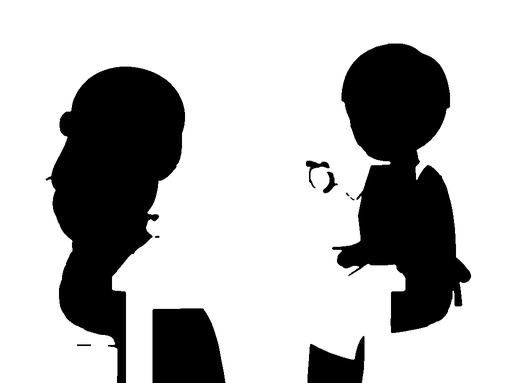
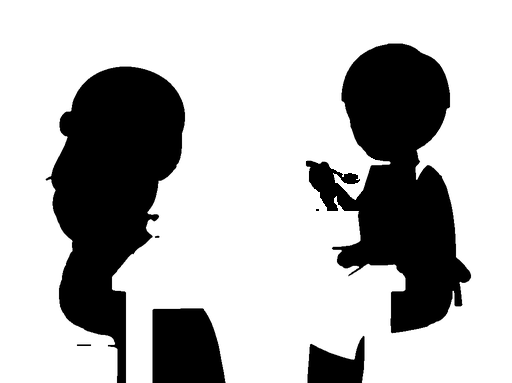
같이 먹기 — 클레멘의 숟가락 든 손이 흐려 보이던 것 (그림자 마스크에 손을 채운다)
Claude-Session: https://claude.ai/code/session_01RZe6NgtUbyn7nAqzQfcGca

Changed region(s): [[0.5938, 0.4308, 0.7188, 0.5744]]

diff --git a/index.html b/index.html
@@ -13,11 +13,11 @@
 <link rel="preconnect" href="https://fonts.googleapis.com">
 <link rel="preconnect" href="https://fonts.gstatic.com" crossorigin>
 <link href="https://fonts.googleapis.com/css2?family=Noto+Sans+KR:wght@400;500;700;800;900&display=swap" rel="stylesheet">
-<link rel="stylesheet" href="style.css?v=20261029f">
+<link rel="stylesheet" href="style.css?v=20261029g">
 <!-- ⚠ UI 색상은 «첫 페인트 전»에 정해져야 한다 — 문서 끝에 두면 기본 색으로
      한 번 그려진 뒤에 얹혀서 다크를 고른 사람에게 흰 화면이 한 번 친다.
      그래서 여기만 `defer` 없이 `<head>` 에서 읽는다 (theme.js 주석 참고) -->
-<script src="theme.js?v=20261029f"></script>
+<script src="theme.js?v=20261029g"></script>
 </head>
 <body>
 
@@ -54,7 +54,7 @@
 <div id="splash" class="splash">
   <div class="splash-inner">
     <!-- 로고 이미지(logo.png)가 있으면 그것을 사용, 없으면 아래 SVG로 자동 폴백 -->
-    <img id="splashLogoImg" class="splash-logo" src="logo.png?v=20261029f" alt="Dream Syndicate Studio"
+    <img id="splashLogoImg" class="splash-logo" src="logo.png?v=20261029g" alt="Dream Syndicate Studio"
          onerror="this.remove(); var f=document.getElementById('splashLogoSvg'); if(f) f.style.display='block';">
     <svg id="splashLogoSvg" class="splash-logo" style="display:none" viewBox="0 0 240 240" xmlns="http://www.w3.org/2000/svg" role="img" aria-label="Dream Syndicate Studio">
       <defs>
@@ -1289,40 +1289,40 @@
 <!-- ── 토스트 ── -->
 <div id="toast" class="toast"></div>
 
-<script src="i18n.js?v=20261029f"></script>
-<script src="intro.js?v=20261029f"></script>
-<script src="data.js?v=20261029f"></script>
+<script src="i18n.js?v=20261029g"></script>
+<script src="intro.js?v=20261029g"></script>
+<script src="data.js?v=20261029g"></script>
 <!-- ⚠⚠ **`roomart.js` 는 «모듈보다 먼저»** 와야 한다. 방과 소품의 그림이 여기
      한 곳에 있고, 3D 방(room3d.js · ES 모듈)이 `window.RoomArt` 로 그것을 읽는다 —
      SVG 폴백(avatar.js)도 같은 캔버스를 data URL 로 쓴다.
      (평범한 스크립트가 모듈보다 먼저 도는 것이 규칙이지만, 순서로도 적어 둔다) -->
-<script src="roomart.js?v=20261029f"></script>
-<script src="crouchart.js?v=20261029f"></script>
-<script src="earart.js?v=20261029f"></script>
-<script src="expart.js?v=20261029f"></script>
-<script src="avatar.js?v=20261029f"></script>
-<script src="village.js?v=20261029f"></script>
-<script src="npcart.js?v=20261029f"></script>
-<script src="portrait.js?v=20261029f"></script>
+<script src="roomart.js?v=20261029g"></script>
+<script src="crouchart.js?v=20261029g"></script>
+<script src="earart.js?v=20261029g"></script>
+<script src="expart.js?v=20261029g"></script>
+<script src="avatar.js?v=20261029g"></script>
+<script src="village.js?v=20261029g"></script>
+<script src="npcart.js?v=20261029g"></script>
+<script src="portrait.js?v=20261029g"></script>
 <!-- 애교 모션의 리그. **`creature.js` 가 그릴 때 읽으므로 그보다 먼저** 둔다
      (없어도 게임은 돈다 — 그때는 크리처가 가만히 서 있다) -->
-<script src="petidle.js?v=20261029f"></script>
-<script src="creature.js?v=20261029f"></script>
-<script src="cauldron.js?v=20261029f"></script>
-<script src="pumpkin.js?v=20261029f"></script>
-<script src="walnut.js?v=20261029f"></script>
-<script src="rock.js?v=20261029f"></script>
-<script src="fish.js?v=20261029f"></script>
-<script src="sparrow.js?v=20261029f"></script>
-<script src="pinwheel.js?v=20261029f"></script>
-<script src="driller.js?v=20261029f"></script>
-<script src="sfx.js?v=20261029f"></script>
-<script src="sync.js?v=20261029f"></script>
+<script src="petidle.js?v=20261029g"></script>
+<script src="creature.js?v=20261029g"></script>
+<script src="cauldron.js?v=20261029g"></script>
+<script src="pumpkin.js?v=20261029g"></script>
+<script src="walnut.js?v=20261029g"></script>
+<script src="rock.js?v=20261029g"></script>
+<script src="fish.js?v=20261029g"></script>
+<script src="sparrow.js?v=20261029g"></script>
+<script src="pinwheel.js?v=20261029g"></script>
+<script src="driller.js?v=20261029g"></script>
+<script src="sfx.js?v=20261029g"></script>
+<script src="sync.js?v=20261029g"></script>
 <!-- 방을 3D 로 그리는 모듈. **모듈이라 미뤄져 실행된다** — 그래서 게임은
      이것이 «없어도» 돈다 (SVG 방 그대로). 준비되면 room3d-ready 로 알린다 -->
-<script type="module" src="room3d.js?v=20261029f"></script>
-<script src="game.js?v=20261029f"></script>
-<script src="tutorial.js?v=20261029f"></script>
-<script src="a11y.js?v=20261029f"></script>
+<script type="module" src="room3d.js?v=20261029g"></script>
+<script src="game.js?v=20261029g"></script>
+<script src="tutorial.js?v=20261029g"></script>
+<script src="a11y.js?v=20261029g"></script>
 </body>
 </html>

diff --git a/tools/mealshadowhand.py b/tools/mealshadowhand.py
@@ -1,0 +1,21 @@
+# 같이 먹기 그림자 마스크(mealshadow.png)에 클레멘의 «숟가락 든 손»을 채운다 (2026-10-29 · 「숟가락 든 손 흐린 것도 고쳐줘」).
+# 손을 사람으로 안 쳐서 클레멘 몸의 그림자가 손 위에 드리워 흐려 보였다 — 원본 PNG 에서 살색·숟가락·소매 빛깔을 떠 OR 한다.
+# 쓰는 법: python3 -I tools/mealshadowhand.py <원본 PNG> <옛 mealshadow.png> mealshadow.png  (두 번 해도 같다)
+import sys, numpy as np
+from PIL import Image
+src = np.asarray(Image.open(sys.argv[1]).convert('RGB')).astype(int)
+m = Image.open(sys.argv[2]); a = np.asarray(m.getchannel('A')).copy()
+x0,y0,x1,y1 = 600,312,760,420
+box = src[y0:y1, x0:x1]
+skin = (box[...,0] - box[...,2] > 60) & (box[...,0] > 200)
+mx, mn = box.max(-1), box.min(-1)
+spoon = (mx < 185) & (mx - mn < 20)          # 숟가락의 회색 (창턱 띠는 이보다 밝다)
+bowl = (box[...,0] - box[...,2] > 50) & (box[...,0] > 190)   # 숟가락 위 수프
+sleeve = np.abs(box - np.array([189,156,119])).sum(-1) < 50
+hm = skin | spoon | bowl | sleeve
+print('hand px', hm.sum())
+big = np.zeros(src.shape[:2], bool); big[y0:y1, x0:x1] = hm
+sm = np.asarray(Image.fromarray((big*255).astype(np.uint8)).resize(m.size, Image.BILINEAR)) > 60
+a = np.maximum(a, sm.astype(np.uint8)*255)
+out = np.asarray(m).copy(); out[...,3] = a
+Image.fromarray(out).save(sys.argv[3])
